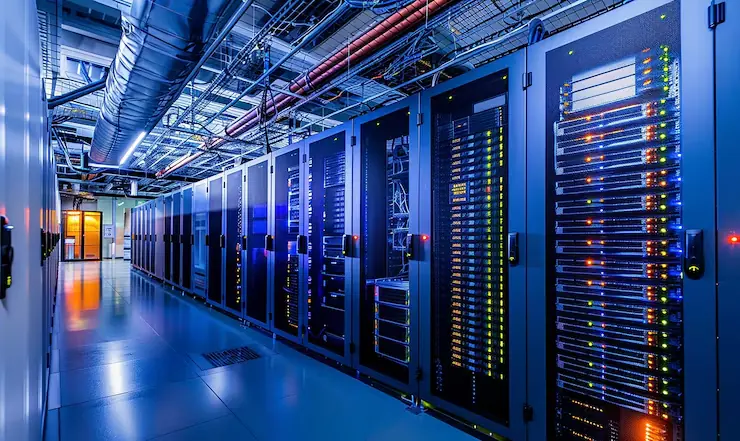
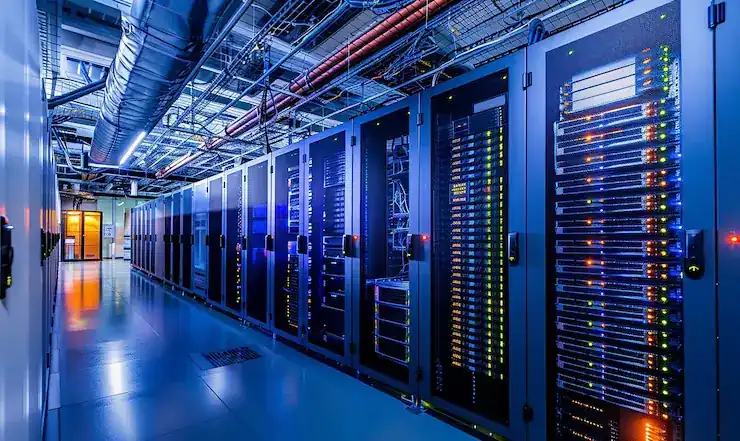
fix: CLS, contrast, touch targets, broken images, non-composited animations
- Remove scrollbar-color entirely from CSS (was on html, still caused 172 non-composited animations)
- Add min-h-[3.5rem] to hero typewriter paragraph to prevent CLS
- Increase Button sm/md size to min-h-[44px] for WCAG touch targets
- Add getManufacturerTextColor() with darkened palette for WCAG AA contrast on light bg
- Fix TrustBar, BrandSpotlight, BrandLogo to use text-safe colors
- Fix broken logo paths: skhynix.svg → sk-hynix.svg, westerndigital.svg → wdc.svg
- Replace broken Unsplash image (photo-1555618561) in BrandSpotlight, blog, home data
- Compress server-room-5.webp to quality 50

diff --git a/src/data/manufacturer-colors.ts b/src/data/manufacturer-colors.ts
@@ -14,12 +14,12 @@ export const MANUFACTURER_COLORS: Record<string, string> = {
   HPE: "#00A94B",
   Supermicro: "#B22222",
   Lenovo: "#E2231A",
-  "GIGABYTE Technology": "#000000",
-  GIGABYTE: "#000000",
-  ASUS: "#000000",
+  "GIGABYTE Technology": "#333333",
+  GIGABYTE: "#333333",
+  ASUS: "#333333",
   Inspur: "#0066CC",
-  "Quanta Computer": "#000000",
-  Quanta: "#000000",
+  "Quanta Computer": "#333333",
+  Quanta: "#333333",
   Foxconn: "#0072C6",
   Wiwynn: "#0078C0",
   Broadcom: "#E31837",
@@ -33,9 +33,57 @@ export const MANUFACTURER_COLORS: Record<string, string> = {
   "Western Digital": "#FF6600",
   WD: "#FF6600",
   Seagate: "#6EB92B",
-  JEDEC: "#000000",
+  JEDEC: "#333333",
   Nokia: "#005AFF",
 };
+
+const TEXT_DARKEN_MAP: Record<string, string> = {
+  "#76B900": "#3D6E00",
+  "#ED1C24": "#B91419",
+  "#0071C5": "#004A88",
+  "#4285F4": "#1A5DC8",
+  "#FF9900": "#B36B00",
+  "#32529F": "#1E3366",
+  "#0055A5": "#003D77",
+  "#007DB8": "#005A85",
+  "#00A94B": "#007735",
+  "#B22222": "#7A1717",
+  "#E2231A": "#A01812",
+  "#0066CC": "#004D99",
+  "#0072C6": "#00528F",
+  "#0078C0": "#005689",
+  "#E31837": "#A01026",
+  "#00A1DE": "#0074A6",
+  "#1BA0D7": "#1373A0",
+  "#FF6600": "#B34800",
+  "#1428A0": "#0E1D70",
+  "#00A3E0": "#0073A0",
+  "#FF1A1A": "#B31212",
+  "#6EB92B": "#4A801D",
+  "#005AFF": "#0044CC",
+  "#333333": "#1A1A1A",
+};
+
+export function getManufacturerTextColor(name: string): string {
+  const color = MANUFACTURER_COLORS[name] || "#6B7280";
+  return TEXT_DARKEN_MAP[color] || darkenColor(color, 0.35);
+}
+
+function darkenColor(hex: string, amount: number): string {
+  const r = Math.max(
+    0,
+    parseInt(hex.slice(1, 3), 16) - Math.round(255 * amount),
+  );
+  const g = Math.max(
+    0,
+    parseInt(hex.slice(3, 5), 16) - Math.round(255 * amount),
+  );
+  const b = Math.max(
+    0,
+    parseInt(hex.slice(5, 7), 16) - Math.round(255 * amount),
+  );
+  return `#${r.toString(16).padStart(2, "0")}${g.toString(16).padStart(2, "0")}${b.toString(16).padStart(2, "0")}`;
+}
 
 export function getManufacturerColor(name: string): string {
   return MANUFACTURER_COLORS[name] || "#6B7280";

diff --git a/src/components/home/BrandSpotlight.tsx b/src/components/home/BrandSpotlight.tsx
@@ -8,7 +8,10 @@ import Image from "next/image";
 import { ArrowRight, Cpu } from "lucide-react";
 import { SectionHeading } from "@/components/ui/SectionHeading";
 import { CHIPS } from "@/data/chips";
-import { MANUFACTURER_COLORS } from "@/data/manufacturer-colors";
+import {
+  MANUFACTURER_COLORS,
+  getManufacturerTextColor,
+} from "@/data/manufacturer-colors";
 
 // Group chips by manufacturer for the showcase
 const ENTERPRISE_ROWS = [
@@ -32,7 +35,7 @@ const ENTERPRISE_ROWS = [
     manufacturer: "Intel",
     chips: ["intel-gaudi-3", "intel-xeon-6980p", "intel-xeon-8490h"],
     image:
-      "https://images.unsplash.com/photo-1555618561-5b0e7a3f7b9a?w=600&q=80",
+      "https://images.unsplash.com/photo-1518770660439-4636190af475?w=600&q=80",
     desc: "Gaudi AI accelerators and Xeon processors for enterprise AI and data center workloads.",
     badge: "AI & Xeon",
   },
@@ -62,6 +65,7 @@ export function BrandSpotlight() {
         <div className="space-y-16">
           {ENTERPRISE_ROWS.map((row, index) => {
             const color = MANUFACTURER_COLORS[row.manufacturer] || "#76B900";
+            const textColor = getManufacturerTextColor(row.manufacturer);
             const isReversed = index % 2 === 1;
             const imgFailed = failedImages.has(row.manufacturer);
             const rowChips = getChipsForRow(row.chips);
@@ -100,7 +104,10 @@ export function BrandSpotlight() {
                     <div className="absolute bottom-4 left-4">
                       <span
                         className="text-xs font-bold px-3 py-1 rounded-full"
-                        style={{ backgroundColor: `${color}22`, color }}
+                        style={{
+                          backgroundColor: `${color}22`,
+                          color: textColor,
+                        }}
                       >
                         {row.manufacturer}
                       </span>
@@ -116,7 +123,7 @@ export function BrandSpotlight() {
                     </h3>
                     <span
                       className="text-xs font-bold px-3 py-1 rounded-full border"
-                      style={{ borderColor: color, color }}
+                      style={{ borderColor: textColor, color: textColor }}
                     >
                       {row.chips.length} Products
                     </span>
@@ -146,7 +153,10 @@ export function BrandSpotlight() {
                           <Link
                             href={`/products/${chip.slug}`}
                             className="text-xs font-semibold px-3 py-1.5 rounded-lg transition-all hover:scale-105 shrink-0"
-                            style={{ backgroundColor: `${color}22`, color }}
+                            style={{
+                              backgroundColor: `${color}22`,
+                              color: textColor,
+                            }}
                           >
                             Details
                           </Link>
@@ -159,7 +169,7 @@ export function BrandSpotlight() {
                     <Link
                       href={`/manufacturers/${row.manufacturer.toLowerCase()}`}
                       className="inline-flex items-center gap-1.5 text-sm font-semibold px-5 py-2.5 rounded-xl text-white transition-all duration-300 hover:scale-105"
-                      style={{ backgroundColor: color }}
+                      style={{ backgroundColor: textColor }}
                     >
                       View All {row.manufacturer} Products{" "}
                       <ArrowRight className="w-3.5 h-3.5" />

diff --git a/src/components/ui/BrandLogo.tsx b/src/components/ui/BrandLogo.tsx
@@ -1,5 +1,8 @@
 import Image from "next/image";
-import { MANUFACTURER_COLORS } from "@/data/manufacturer-colors";
+import {
+  MANUFACTURER_COLORS,
+  getManufacturerTextColor,
+} from "@/data/manufacturer-colors";
 
 interface BrandLogoProps {
   name: string;
@@ -67,6 +70,7 @@ export function BrandLogo({
   }
 
   const color = MANUFACTURER_COLORS[name] || "#6B7280";
+  const textColor = getManufacturerTextColor(name);
   const initials = name
     .split(/[\s-]+/)
     .map((w) => w[0])
@@ -80,7 +84,10 @@ export function BrandLogo({
         className="flex items-center justify-center rounded-lg shrink-0"
         style={{ backgroundColor: `${color}22` }}
       >
-        <span style={{ color }} className="text-[10px] font-black font-mono">
+        <span
+          style={{ color: textColor }}
+          className="text-[10px] font-black font-mono"
+        >
           {initials}
         </span>
       </div>
@@ -92,7 +99,10 @@ export function BrandLogo({
       className={`${className} flex items-center justify-center rounded-lg shrink-0`}
       style={{ backgroundColor: `${color}15` }}
     >
-      <span style={{ color }} className="text-xs font-bold font-mono">
+      <span
+        style={{ color: textColor }}
+        className="text-xs font-bold font-mono"
+      >
         {initials}
       </span>
     </div>

diff --git a/src/components/ui/Button.tsx b/src/components/ui/Button.tsx
@@ -27,7 +27,7 @@ const Button = forwardRef<HTMLButtonElement, ButtonProps>(
       disabled,
       ...props
     },
-    ref
+    ref,
   ) => {
     return (
       <button
@@ -44,13 +44,13 @@ const Button = forwardRef<HTMLButtonElement, ButtonProps>(
               variant === "ghost",
           },
           {
-            "px-3 py-1.5 text-xs": size === "sm",
-            "px-4 py-2 text-sm": size === "md",
+            "px-3 py-2.5 text-xs min-h-[44px]": size === "sm",
+            "px-4 py-2.5 text-sm min-h-[44px]": size === "md",
             "px-6 py-3 text-base": size === "lg",
             "px-8 py-4 text-lg": size === "xl",
           },
           fullWidth && "w-full",
-          className
+          className,
         )}
         {...props}
       >
@@ -63,7 +63,7 @@ const Button = forwardRef<HTMLButtonElement, ButtonProps>(
         {icon && iconPosition === "right" && icon}
       </button>
     );
-  }
+  },
 );
 
 Button.displayName = "Button";

diff --git a/src/components/home/Hero3D.tsx b/src/components/home/Hero3D.tsx
@@ -181,9 +181,9 @@ const LOGOS = [
   { src: "/images/logos/marvell.svg", label: "Marvell" },
   { src: "/images/logos/samsung.svg", label: "Samsung" },
   { src: "/images/logos/micron.svg", label: "Micron" },
-  { src: "/images/logos/skhynix.svg", label: "SK hynix" },
+  { src: "/images/logos/sk-hynix.svg", label: "SK hynix" },
   { src: "/images/logos/kioxia.svg", label: "Kioxia" },
-  { src: "/images/logos/westerndigital.svg", label: "Western Digital" },
+  { src: "/images/logos/wdc.svg", label: "Western Digital" },
   { src: "/images/logos/seagate.svg", label: "Seagate" },
   { src: "/images/logos/dell.svg", label: "Dell" },
   { src: "/images/logos/hpe.svg", label: "HPE" },
@@ -280,7 +280,7 @@ export function Hero3D() {
             initial={{ opacity: 0, y: 15 }}
             animate={{ opacity: 1, y: 0 }}
             transition={{ delay: 0.35 }}
-            className="text-slate-300 text-base sm:text-lg leading-relaxed mb-10 max-w-2xl mx-auto"
+            className="text-slate-300 text-base sm:text-lg leading-relaxed mb-10 max-w-2xl mx-auto min-h-[3.5rem]"
           >
             <span className="text-primary/60 mr-2 font-mono text-sm">&gt;</span>
             {displayText}

diff --git a/src/app/globals.css b/src/app/globals.css
@@ -117,11 +117,6 @@
 /* ============================================================
    RESET & BASE
    ============================================================ */
-html {
-  scrollbar-color: var(--border) transparent;
-  scrollbar-width: thin;
-}
-
 body {
   background: var(--bg-body);
   color: var(--text);

diff --git a/src/components/home/TrustBar.tsx b/src/components/home/TrustBar.tsx
@@ -1,7 +1,7 @@
 "use client";
 
 import { TRUST_BAR_ITEMS } from "@/data/home";
-import { getManufacturerColor } from "@/data/manufacturer-colors";
+import { getManufacturerTextColor } from "@/data/manufacturer-colors";
 import { BrandLogo } from "@/components/ui/BrandLogo";
 
 const MANUFACTURER_NAMES = new Set([
@@ -35,7 +35,7 @@ export function TrustBar() {
         >
           {[...TRUST_BAR_ITEMS, ...TRUST_BAR_ITEMS].map((item, i) => {
             const isMfr = MANUFACTURER_NAMES.has(item.text);
-            const color = getManufacturerColor(item.text);
+            const color = getManufacturerTextColor(item.text);
             return (
               <div
                 key={`trust-${i}`}

diff --git a/src/data/blog.ts b/src/data/blog.ts
@@ -134,7 +134,7 @@ export const BLOG_POSTS: BlogPost[] = [
       "Detailed comparison of the three leading AI accelerators — NVIDIA H100, AMD MI300X, and Intel Gaudi 3 — for training, inference, and HPC workloads.",
     content: "",
     featuredImage:
-      "https://images.unsplash.com/photo-1555618561-5b0e7a3f7b9a?w=800&h=450&fit=crop",
+      "https://images.unsplash.com/photo-1518770660439-4636190af475?w=800&h=450&fit=crop",
     category: cat("comparison"),
     tags: [
       tag("ai-training"),

diff --git a/src/data/home.ts b/src/data/home.ts
@@ -517,7 +517,7 @@ export const INSIGHT_POSTS: InsightPost[] = [
     category: "Comparison",
     slug: "h100-vs-mi300x-vs-gaudi3-comparison",
     image:
-      "https://images.unsplash.com/photo-1555618561-5b0e7a3f7b9a?w=400&h=250&fit=crop",
+      "https://images.unsplash.com/photo-1518770660439-4636190af475?w=400&h=250&fit=crop",
   },
   {
     title: